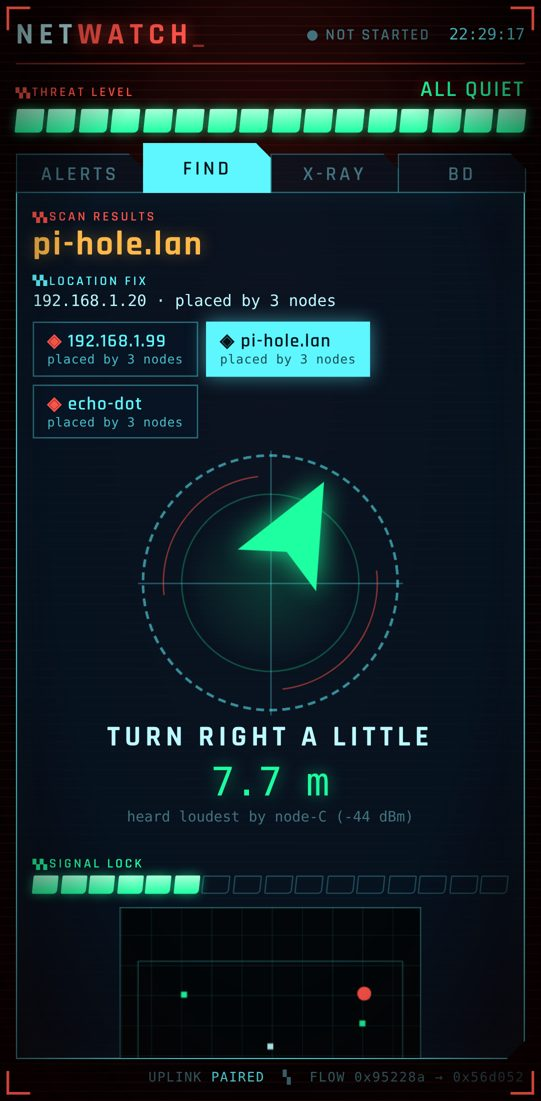
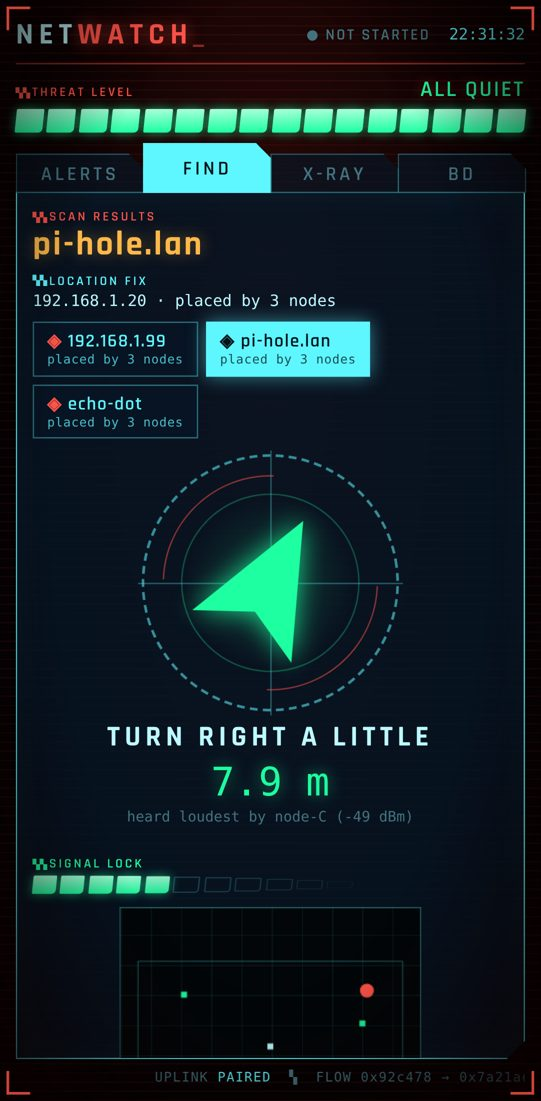
FIND: the arrowhead sits in the middle of the dial
It turns in place, slightly larger now that it is on its own: the sharp end
is the way to go and the notch is the back.

Claude-Session: https://claude.ai/code/session_01KpN256eKDzNWkjxKUN9h2u

diff --git a/internal/webui/assets/companion.css b/internal/webui/assets/companion.css
@@ -101,7 +101,7 @@ p.note { color: var(--dim); font-size: 13.5px; line-height: 1.45; margin: 8px 0;
 .dial-core { position: absolute; inset: 30px; border-radius: 50%; background: radial-gradient(circle, rgba(29, 255, 161, 0.16), transparent 70%); border: 1px solid rgba(29, 255, 161, 0.3); }
 .dial-core::before, .dial-core::after { content: ""; position: absolute; background: rgba(94, 246, 255, 0.35); }
 .dial-core::before { left: 50%; top: -34px; bottom: -34px; width: 1px; } .dial-core::after { top: 50%; left: -34px; right: -34px; height: 1px; }
-/* an arrowhead on the rim of the dial: it sits on the side to go towards and points that way */
+/* an arrowhead in the middle of the dial, turning in place: the sharp end is the way to go, the notch is the back */
 #fdArrow { position: relative; z-index: 2; width: 178px; height: 178px; color: var(--green); filter: drop-shadow(0 0 10px rgba(29, 255, 161, 0.8)); transition: transform 0.15s linear; }
 #fdCompass.near #fdArrow { color: var(--red); filter: drop-shadow(0 0 12px rgba(255, 84, 73, 0.9)); animation: pulse 0.6s ease-in-out infinite; }
 #fdCompass.near .dial-core { background: radial-gradient(circle, rgba(255, 84, 73, 0.22), transparent 70%); border-color: rgba(255, 84, 73, 0.5); }

diff --git a/internal/webui/assets/companion.html b/internal/webui/assets/companion.html
@@ -42,7 +42,7 @@
       <div class="scan-aff" id="fdAff">—</div>
       <div id="fdTargets"></div>
       <div id="fdCompass">
-        <div id="fdDial"><div class="dial-core"></div><svg id="fdArrow" viewBox="-50 -50 100 100" aria-label="direction to go"><path d="M0,-49 L19,-6 L0,-15 L-19,-6 Z" fill="currentColor"/></svg></div>
+        <div id="fdDial"><div class="dial-core"></div><svg id="fdArrow" viewBox="-50 -50 100 100" aria-label="direction to go"><path d="M0,-30 L24,26 L0,14 L-24,26 Z" fill="currentColor"/></svg></div>
         <div id="fdHint">PICK A DEVICE</div>
         <div id="fdDist"></div>
         <div id="fdSub"></div>

diff --git a/docs/EXPERIMENTAL.md b/docs/EXPERIMENTAL.md
@@ -232,7 +232,7 @@ Candidates, roughly grouped. Move a line into a table above when it lands.
 | 2026-11-19 | FIND on the phone companion (compass arrow to a located device); favicon with a status dot; threat light on a bare board; power-up light self-test |
 | 2026-11-19 | MOBILE deck: QR code and switch for the phone link |
 | 2026-11-19 | Phone page restyled to match the console (boot handshake, threat bar, reticle, glitch) |
-| 2026-11-19 | BRAINDANCE deck; BD tab on the phone (clip playback, SHARE MY VIEW); clips keep their floor plan; FIND's pointer is an arrowhead on the rim of the dial |
+| 2026-11-19 | BRAINDANCE deck; BD tab on the phone (clip playback, SHARE MY VIEW); clips keep their floor plan; FIND's pointer is a notched arrowhead in the middle of the dial |
 | 2026-11-19 | Command bar and VOICE on every deck; the console opens in a window of its own; `update.sh` and the UPDATE card |
 
 ---
